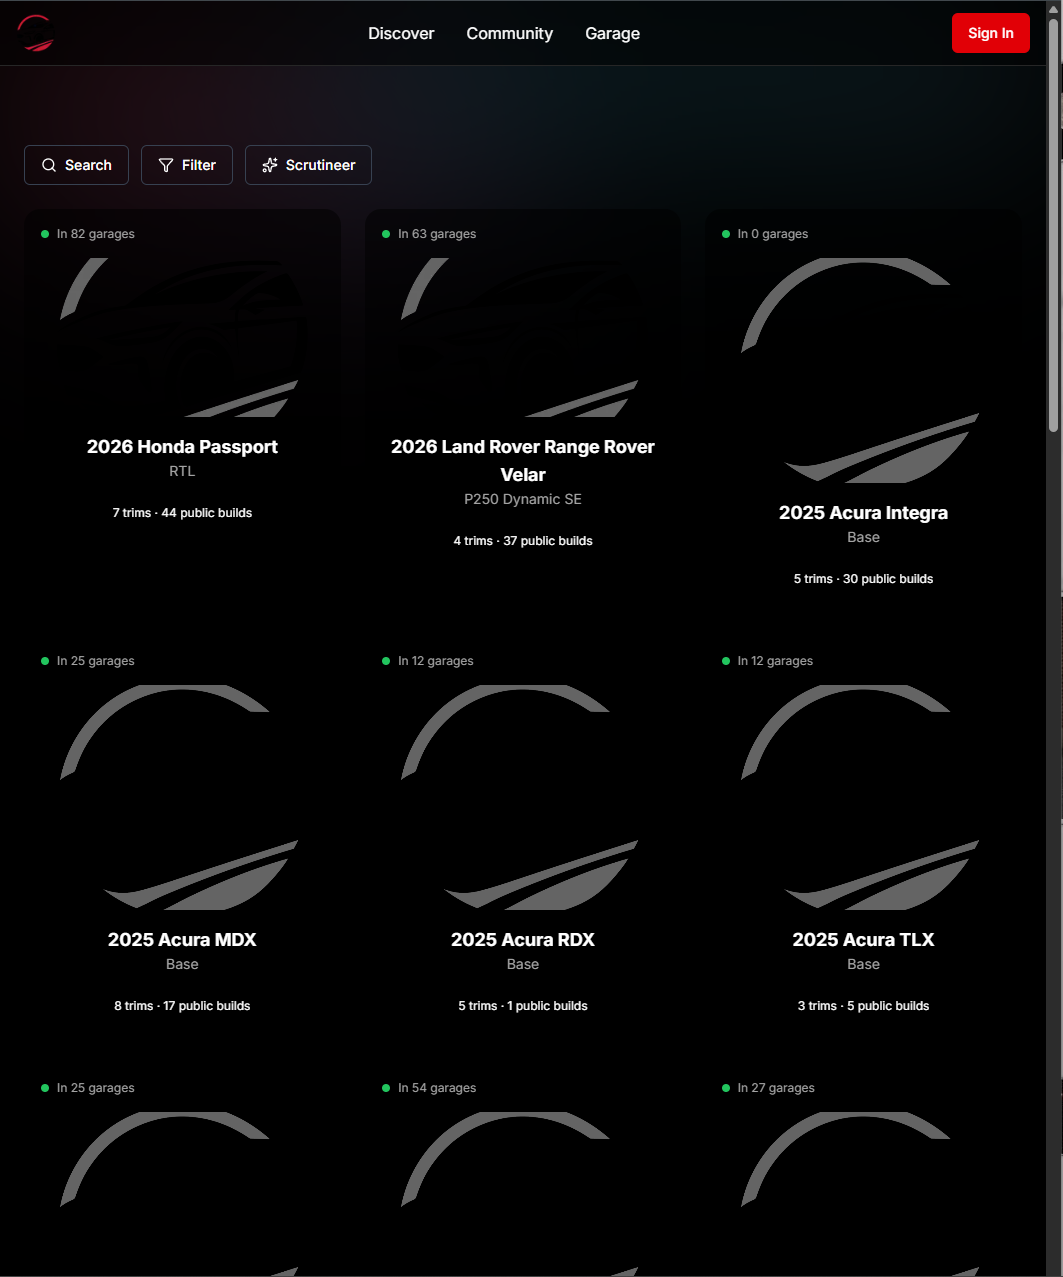
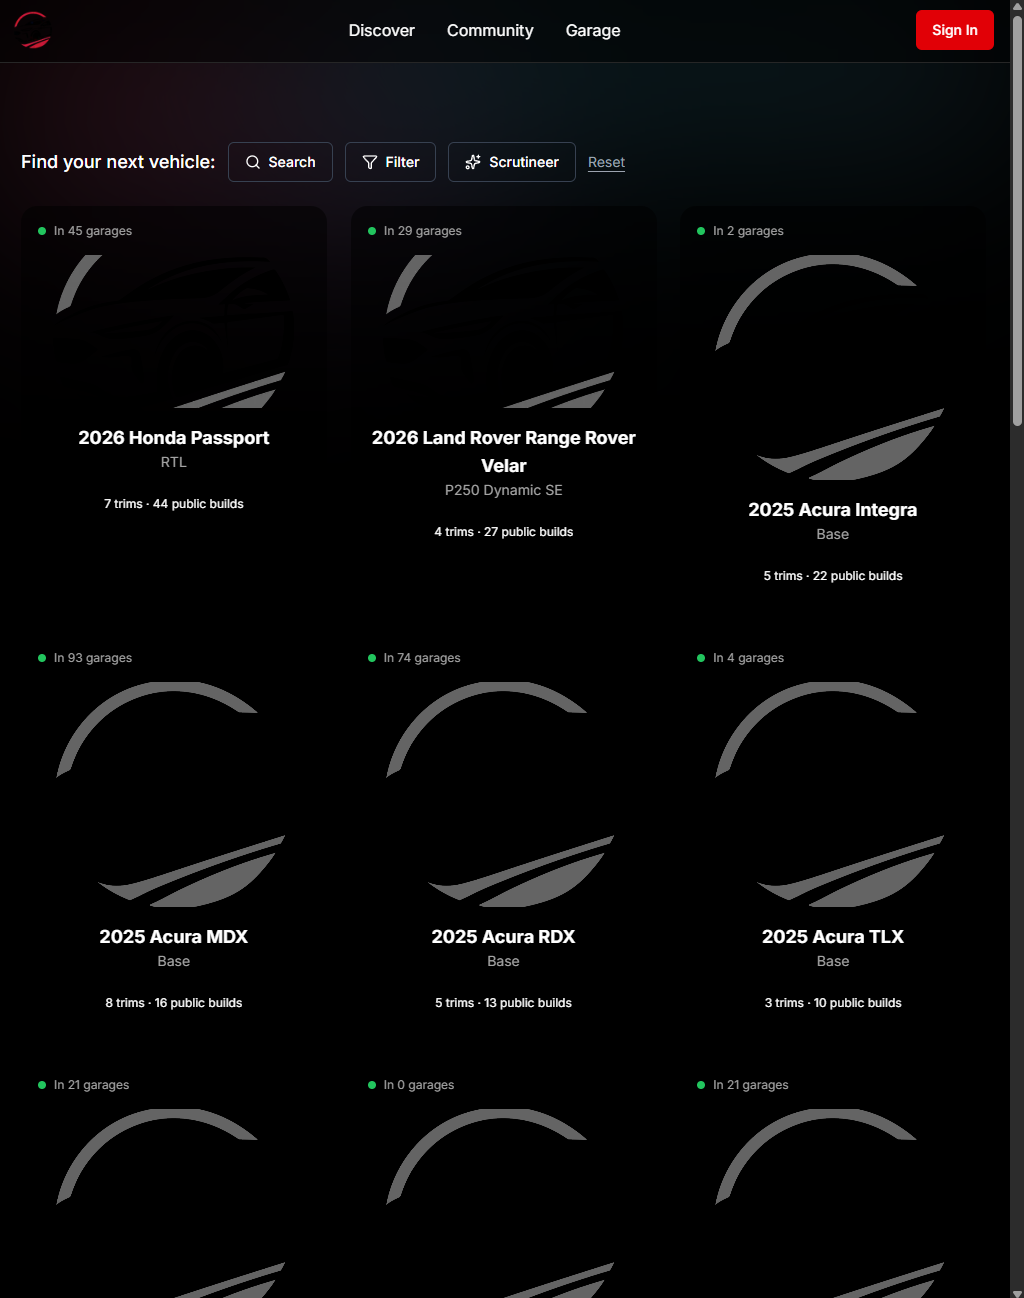
Refactor Discover Action Buttons and Vehicle Gallery layout for improved responsiveness and styling. Adjust button widths and reset button styling. Enhance vehicle gallery item structure for better alignment and visual consistency.

diff --git a/my-turborepo/apps/web/src/features/discover/vehicle-gallery.tsx b/my-turborepo/apps/web/src/features/discover/vehicle-gallery.tsx
@@ -55,17 +55,17 @@ export function VehicleGallery({ vehicles, onLoadMore, loadingMore = false, hasM
 
   return (
     <>
-      <div className="grid gap-6 grid-cols-1 md:grid-cols-2 lg:grid-cols-3">
+      <div className="grid gap-6 grid-cols-1 md:grid-cols-2 lg:grid-cols-3 auto-rows-fr">
         {vehicles.map((summary) => (
-          <div key={summary.id} className="group transition-all duration-300 w-full" onClick={() => handleOpenModal(summary)}>
-            <div className="bg-black/50 backdrop-blur-lg rounded-2xl p-4 text-white flex flex-col gap-4 border border-transparent transition-all duration-300 group-hover:scale-105 group-hover:border-lime-400/50 group-hover:shadow-lg group-hover:shadow-lime-500/20 cursor-pointer h-full">
-              <div className="flex items-center text-xs text-neutral-400">
+          <div key={summary.id} className="group transition-all duration-300 flex" onClick={() => handleOpenModal(summary)}>
+            <div className="bg-black/50 backdrop-blur-lg rounded-2xl p-4 text-white flex flex-col gap-4 border border-transparent transition-all duration-300 group-hover:scale-105 group-hover:border-lime-400/50 group-hover:shadow-lg group-hover:shadow-lime-500/20 cursor-pointer w-full">
+              <div className="flex items-center text-xs text-neutral-400 flex-shrink-0">
                 <div className="flex items-center gap-2">
                   <span className="w-2 h-2 rounded-full bg-green-500"></span>
                   In {Math.floor(Math.random() * 100)} garages
                 </div>
               </div>
-              <div className="w-full">
+              <div className="w-full flex-shrink-0">
                 <ImageWithFallback
                   src={getVehicleImageSources(
                     summary.heroImage || summary.trims[0]?.image_url,
@@ -77,16 +77,16 @@ export function VehicleGallery({ vehicles, onLoadMore, loadingMore = false, hasM
                   alt={`${summary.make} ${summary.model}`}
                   width={400}
                   height={225}
-                  className="rounded-lg object-cover aspect-video bg-white/10 w-full"
+                  className="rounded-lg object-cover aspect-video bg-white/10 w-full h-auto"
                 />
               </div>
-              <div className="text-center">
+              <div className="text-center flex-shrink-0">
                 <h3 className="font-bold text-lg">{summary.year} {summary.make} {summary.model}</h3>
                 <p className="text-neutral-400 text-sm">
                   {summary.trims[0]?.trim || `${summary.trims.length} trims available`}
                 </p>
               </div>
-              <div className="bg-lime-500/20 text-lime-400 text-xs text-center py-2 rounded-lg">
+              <div className="bg-lime-500/20 text-lime-400 text-xs text-center py-2 rounded-lg flex-shrink-0">
                 {summary.trims.length} trims · {Math.floor(Math.random() * 50)} public builds
               </div>
             </div>

diff --git a/my-turborepo/apps/web/src/features/discover/discover-action-buttons.tsx b/my-turborepo/apps/web/src/features/discover/discover-action-buttons.tsx
@@ -41,13 +41,13 @@ export function DiscoverActionButtons({
 
   return (
     <>
-      <div className="flex flex-wrap items-center gap-3 mb-6">
-        <span className="text-white text-lg font-medium">Find your next vehicle:</span>
+      <div className="flex flex-wrap items-center justify-between gap-3 mb-6">
         <div className="flex flex-wrap items-center gap-3">
+          <span className="text-white text-lg font-medium">Find your next vehicle:</span>
           <Button
             onClick={() => setShowSearch(true)}
             variant="outline"
-            className="flex items-center justify-center gap-2 bg-gray-900/50 border-gray-700 hover:bg-gray-800 text-white w-[140px]"
+            className="flex items-center justify-center gap-2 bg-gray-900/50 border-gray-700 hover:bg-gray-800 text-white w-[150px]"
           >
             <Search className="w-4 h-4" />
             Search
@@ -56,7 +56,7 @@ export function DiscoverActionButtons({
           <Button
             onClick={() => setShowFilter(true)}
             variant="outline"
-            className="flex items-center justify-center gap-2 bg-gray-900/50 border-gray-700 hover:bg-gray-800 text-white w-[140px]"
+            className="flex items-center justify-center gap-2 bg-gray-900/50 border-gray-700 hover:bg-gray-800 text-white w-[150px]"
           >
             <Filter className="w-4 h-4" />
             Filter
@@ -65,19 +65,19 @@ export function DiscoverActionButtons({
           <Button
             onClick={() => setShowScrutineer(true)}
             variant="outline"
-            className="flex items-center justify-center gap-2 bg-gray-900/50 border-gray-700 hover:bg-gray-800 text-white w-[140px]"
+            className="flex items-center justify-center gap-2 bg-gray-900/50 border-gray-700 hover:bg-gray-800 text-white w-[150px]"
           >
             <Sparkles className="w-4 h-4" />
             Scrutineer
           </Button>
-          
-          <button
-            onClick={handleReset}
-            className="text-gray-400 hover:text-white transition-colors text-sm underline underline-offset-4"
-          >
-            Reset
-          </button>
         </div>
+        
+        <button
+          onClick={handleReset}
+          className="text-red-500 hover:text-red-400 transition-colors text-sm font-medium"
+        >
+          Reset
+        </button>
       </div>
 
       <SearchModal 
